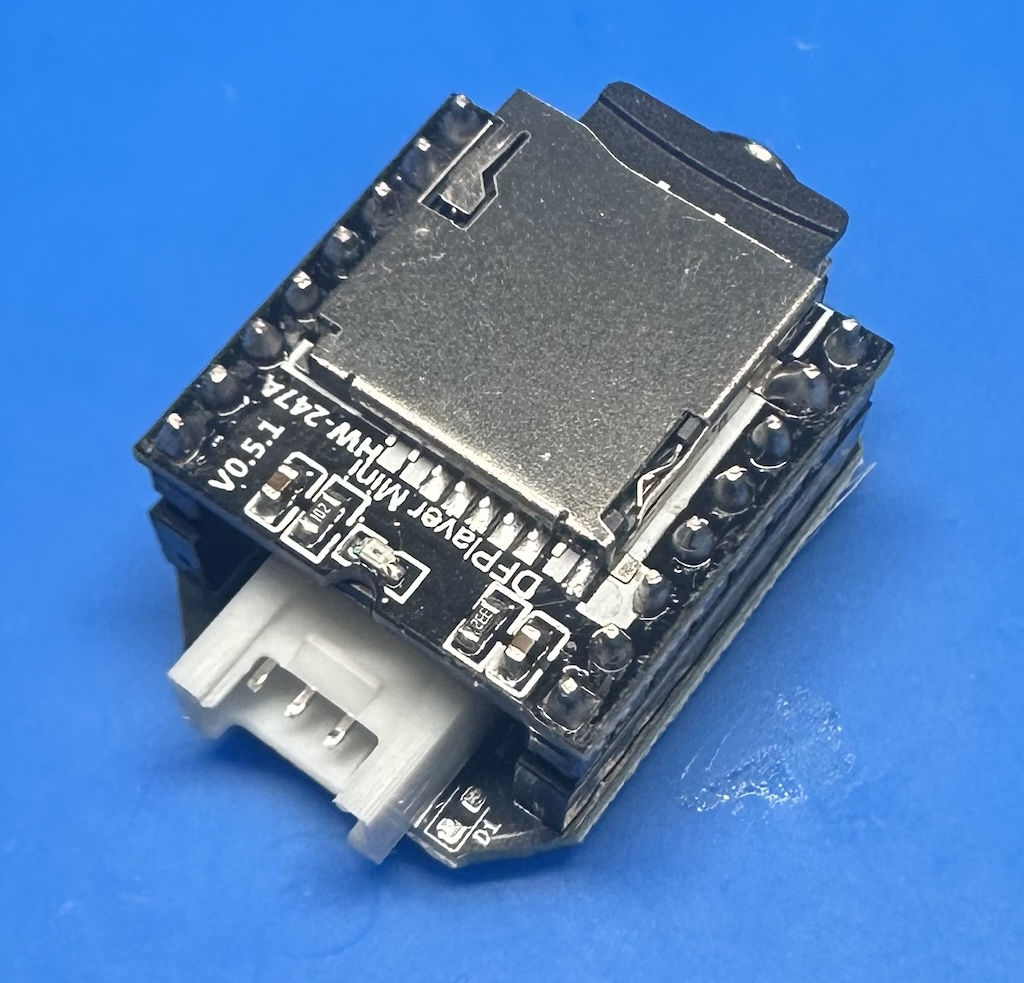
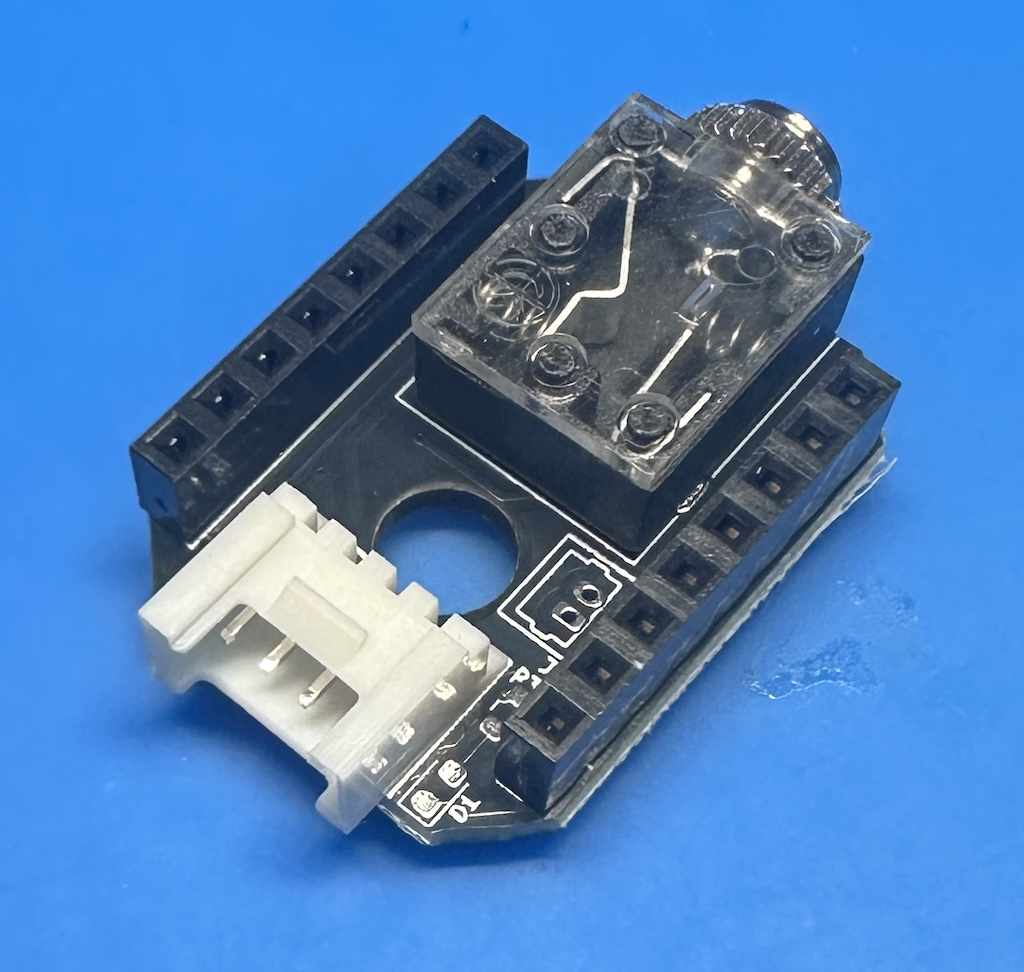
w/DFPlayerMini photo replace

diff --git a/README.md b/README.md
@@ -4,6 +4,8 @@
 
 <img src="https://github.com/akita11/DFPlayerMiniUNIT/blob/main/DFPlayerMiniUNIT_w_Mini.jpg" width="240px">
 
+※当初掲載していた"DFPlayerMini"をとりつけた状態の写真で、DFPlayerMiniの向きが逆になっていました。こちらの写真が正しいです。
+
 DFRobotの音声プレーヤモジュール[DFPlayer(DFPlayerMini)](https://www.switch-science.com/products/4291)をGrove端子を接続して制御できるモジュールです。Grove端子からシリアル(UART)通信で音声再生などを制御することができます。UIFlow(v1)用のブロックもあります。
 
 ※DFPlayerMiniは付属していません
@@ -26,6 +28,8 @@ DFRobotの音声プレーヤモジュール[DFPlayer(DFPlayerMini)](https://www.
 <img src="https://github.com/akita11/DFPlayerMiniUNIT/blob/main/DFPlayerMiniUNIT_spk_w_Mini.jpg" width="240px">
 
 基板中央部の1.25mmピッチコネクタ(Molex 53047-0210用)にスピーカを接続します。市販の小型スピーカ（M5Stack本体に使われているものなど。AliExpressやTaobaoでも同等品があります）を接続することができます。
+
+※こちらの2つめのスピーカつき写真では、DFPlayerMiniの向きが逆になっています。写真は近日中に差し替えます。申し訳ありません。
 
 
 ### 3.5mmジャックに直接スピーカを接続する方法
